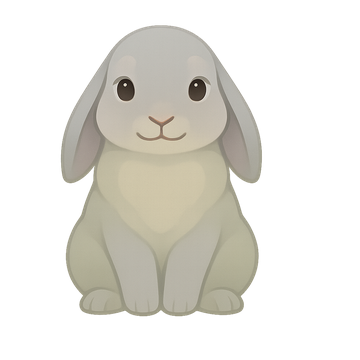
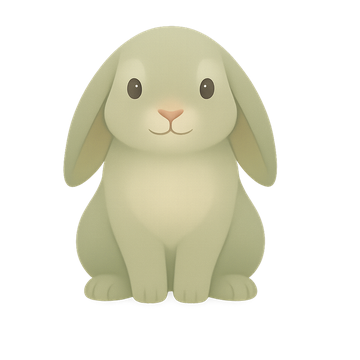
Review fixes: flat river/fern, mobile hero-glow overflow, contrast, terms
From the 2nd design review:
- Regenerated river (otter) + fern (rabbit) idles — they had a dark ink outline /
  glossy airbrush that broke the flat cel-shaded set; now match willow/stone/etc.
  (also updated their 5 app states).
- Fixed a 6px horizontal overflow on phones: the hero glow's -30px bleed pushed
  the page past a 375px viewport; pulled the glow inset to 0 under 700px.
- Contrast: FAQ "+" glyph + How step numerals -> --primary-dark (AA).
- Feature-card minmax floor -> min(100%,260px) so it can't overflow sub-320px.
- Terms Plus features now match the marketing wording (no orphan "export").
Cache version -> v=20260624i.

Changed region(s): [[0.1528, 0.0611, 0.7944, 0.8861]]

diff --git a/index.html b/index.html
@@ -19,14 +19,14 @@
   <meta property="og:description" content="Practice DBT skills with a warm companion you choose — and who's there in the hard moments too. Crisis support is always free.">
   <meta property="og:url" content="https://quietoak.app/">
   <meta property="og:site_name" content="Quietoak">
-  <meta property="og:image" content="https://drvanus.github.io/quietoak-site/og-image.png?v=20260624h">
+  <meta property="og:image" content="https://drvanus.github.io/quietoak-site/og-image.png?v=20260624i">
   <meta name="twitter:card" content="summary_large_image">
   <meta name="twitter:title" content="Quietoak — A calmer way to practice DBT skills.">
   <meta name="twitter:description" content="Practice DBT skills with a warm companion you choose. The crisis kit is always free.">
-  <meta name="twitter:image" content="https://drvanus.github.io/quietoak-site/og-image.png?v=20260624h">
+  <meta name="twitter:image" content="https://drvanus.github.io/quietoak-site/og-image.png?v=20260624i">
 
-  <link rel="icon" type="image/png" href="quietoak-icon.png?v=20260624h">
-  <link rel="apple-touch-icon" href="quietoak-icon.png?v=20260624h">
+  <link rel="icon" type="image/png" href="quietoak-icon.png?v=20260624i">
+  <link rel="apple-touch-icon" href="quietoak-icon.png?v=20260624i">
 
   <link rel="preconnect" href="https://fonts.googleapis.com">
   <link rel="preconnect" href="https://fonts.gstatic.com" crossorigin>
@@ -194,6 +194,9 @@
       background: radial-gradient(ellipse at center, var(--sage-glow), transparent 65%);
       pointer-events: none; z-index: -1;
     }
+    /* On phones the -30px glow bleed pushed the page ~6px past the viewport
+       (horizontal scroll). Pull it in so the page can't drift sideways. */
+    @media (max-width: 700px) { .hero-image::after { inset: 0; } }
 
     /* ===== STATS STRIP ===== */
     .stats-strip {
@@ -233,14 +236,14 @@
       content: counter(step); position: absolute; left: 0; top: 16px;
       width: 44px; height: 44px;
       display: flex; align-items: center; justify-content: center;
-      font-weight: 800; font-size: 1.15rem; color: var(--primary);
+      font-weight: 800; font-size: 1.15rem; color: var(--primary-dark);
       background: var(--sage-glow); border: 1px solid var(--border-strong); border-radius: 50%;
     }
     .how-steps h3 { font-weight: 800; font-size: 1.12rem; margin-bottom: 4px; }
     .how-steps p { color: var(--muted-fg); font-size: 0.97rem; }
 
     /* ===== FEATURES ===== */
-    .features-grid { display: grid; grid-template-columns: repeat(auto-fit, minmax(260px, 1fr)); gap: 20px; }
+    .features-grid { display: grid; grid-template-columns: repeat(auto-fit, minmax(min(100%, 260px), 1fr)); gap: 20px; }
     .feature-card {
       padding: 26px; background: var(--card);
       border: 1px solid var(--border); border-radius: var(--radius-lg);
@@ -351,7 +354,7 @@
       padding-right: 8px; color: var(--fg);
     }
     details.faq summary::-webkit-details-marker { display: none; }
-    details.faq summary::after { content: '+'; color: var(--primary); font-weight: 400; font-size: 1.4rem; transition: transform .2s; }
+    details.faq summary::after { content: '+'; color: var(--primary-dark); font-weight: 400; font-size: 1.4rem; transition: transform .2s; }
     details.faq[open] summary::after { transform: rotate(45deg); }
     details.faq p { margin-top: 12px; color: var(--muted-fg); font-size: 0.98rem; line-height: 1.7; }
 
@@ -386,7 +389,7 @@
   <nav class="site">
     <div class="container">
       <div class="brand">
-        <img src="quietoak-icon.png?v=20260624h" alt="Quietoak">
+        <img src="quietoak-icon.png?v=20260624i" alt="Quietoak">
         Quietoak
       </div>
       <div class="links">
@@ -430,7 +433,7 @@
           </div>
         </div>
         <div class="hero-image">
-          <img src="companions/group.png?v=20260624h" alt="The six Quietoak companions sitting together — a fawn, an owl, an otter, a tortoise, a rabbit, and a fox">
+          <img src="companions/group.png?v=20260624i" alt="The six Quietoak companions sitting together — a fawn, an owl, an otter, a tortoise, a rabbit, and a fox">
         </div>
       </div>
     </div>
@@ -460,7 +463,7 @@
           </ol>
         </div>
         <div>
-          <img class="how-image" src="companions/willow-idle.png?v=20260624h" alt="Willow, a gentle sage-green fawn companion">
+          <img class="how-image" src="companions/willow-idle.png?v=20260624i" alt="Willow, a gentle sage-green fawn companion">
         </div>
       </div>
     </div>
@@ -474,37 +477,37 @@
       <p class="lede" style="text-align:center; margin-left:auto; margin-right:auto;">Six soft nature-spirits, each a different way of showing up. The same companion guides your practice and stays with you in the hard moments.</p>
       <div class="companions-grid">
         <div class="companion-card">
-          <img src="companions/willow-idle.png?v=20260624h" alt="Willow, a fawn">
+          <img src="companions/willow-idle.png?v=20260624i" alt="Willow, a fawn">
           <div class="name">Willow</div>
           <div class="role">Grounding</div>
           <p>Warm and quiet. Slows the body down — feet on the floor, one slow breath.</p>
         </div>
         <div class="companion-card">
-          <img src="companions/stone-idle.png?v=20260624h" alt="Stone, a tortoise">
+          <img src="companions/stone-idle.png?v=20260624i" alt="Stone, a tortoise">
           <div class="name">Stone</div>
           <div class="role">Steady</div>
           <p>Unhurried and immovable. "We have time. Nothing has to be solved this second."</p>
         </div>
         <div class="companion-card">
-          <img src="companions/sage-idle.png?v=20260624h" alt="Sage, an owl">
+          <img src="companions/sage-idle.png?v=20260624i" alt="Sage, an owl">
           <div class="name">Sage</div>
           <div class="role">Clear</div>
           <p>Calm and plainspoken. Helps you name what's happening and see it clearly.</p>
         </div>
         <div class="companion-card">
-          <img src="companions/river-idle.png?v=20260624h" alt="River, an otter">
+          <img src="companions/river-idle.png?v=20260624i" alt="River, an otter">
           <div class="name">River</div>
           <div class="role">Encouraging</div>
           <p>Upbeat and honest. "You showed up — that counts. What's the next small win?"</p>
         </div>
         <div class="companion-card">
-          <img src="companions/fern-idle.png?v=20260624h" alt="Fern, a rabbit">
+          <img src="companions/fern-idle.png?v=20260624i" alt="Fern, a rabbit">
           <div class="name">Fern</div>
           <div class="role">Tender</div>
           <p>Soft and permission-giving. "You don't have to be okay right now."</p>
         </div>
         <div class="companion-card">
-          <img src="companions/sol-idle.png?v=20260624h" alt="Sol, a fox">
+          <img src="companions/sol-idle.png?v=20260624i" alt="Sol, a fox">
           <div class="name">Sol</div>
           <div class="role">Hopeful</div>
           <p>Warm and low-light, not peppy. "Let's find one warm thing to stand on."</p>
@@ -518,7 +521,7 @@
     <div class="container">
       <div class="spotlight-grid">
         <div class="spotlight-phone">
-          <div class="screen-frame"><img src="screenshots/06-context.jpg?v=20260624h" alt="Quietoak onboarding — sharing what you're navigating, diagnosed or exploring" loading="lazy"></div>
+          <div class="screen-frame"><img src="screenshots/06-context.jpg?v=20260624i" alt="Quietoak onboarding — sharing what you're navigating, diagnosed or exploring" loading="lazy"></div>
         </div>
         <div>
           <div class="section-eyebrow">Knows you better</div>
@@ -542,32 +545,32 @@
       <p class="lede">Faithful to the DBT model, built warm by design — the opposite of clinical.</p>
       <div class="features-grid">
         <div class="feature-card">
-          <div class="icon-box"><img src="icons/feat-companion.png?v=20260624h" alt=""></div>
+          <div class="icon-box"><img src="icons/feat-companion.png?v=20260624i" alt=""></div>
           <h3>Choose your companion</h3>
           <p>Six gentle companions, each with a distinct temperament — grounding, steady, clear, encouraging, tender, or hopeful. The companion is an AI guide, named and yours.</p>
         </div>
         <div class="feature-card">
-          <div class="icon-box"><img src="icons/feat-skills.png?v=20260624h" alt=""></div>
+          <div class="icon-box"><img src="icons/feat-skills.png?v=20260624i" alt=""></div>
           <h3>Real DBT skills</h3>
           <p>All four modules — Mindfulness, Distress Tolerance, Emotion Regulation, Interpersonal Effectiveness — in small, plainspoken steps you take at your own pace.</p>
         </div>
         <div class="feature-card">
-          <div class="icon-box"><img src="icons/feat-diary.png?v=20260624h" alt=""></div>
+          <div class="icon-box"><img src="icons/feat-diary.png?v=20260624i" alt=""></div>
           <h3>A one-minute diary card</h3>
           <p>Track emotions, urges, and the skills you used in under a minute. Look back without judgment and notice your own patterns gently over time.</p>
         </div>
         <div class="feature-card">
-          <div class="icon-box"><img src="icons/feat-breathing.png?v=20260624h" alt=""></div>
+          <div class="icon-box"><img src="icons/feat-breathing.png?v=20260624i" alt=""></div>
           <h3>Guided exercises</h3>
           <p>STOP, TIPP, and paced breathing — guided step by step, with a companion who can breathe alongside you when you want company.</p>
         </div>
         <div class="feature-card">
-          <div class="icon-box"><img src="icons/feat-crisis.png?v=20260624h" alt=""></div>
+          <div class="icon-box"><img src="icons/feat-crisis.png?v=20260624i" alt=""></div>
           <h3>Crisis kit, always free</h3>
           <p>988, 741741, and your local lines — never behind a paywall, and it works offline. Some things should never be gated.</p>
         </div>
         <div class="feature-card">
-          <div class="icon-box"><img src="icons/feat-privacy.png?v=20260624h" alt=""></div>
+          <div class="icon-box"><img src="icons/feat-privacy.png?v=20260624i" alt=""></div>
           <h3>Private &amp; accountless</h3>
           <p>No sign-up, no account to create. Your diary and practice stay on your device by default. No ads, no third-party trackers on your diary or chat.</p>
         </div>
@@ -583,19 +586,19 @@
       <p class="lede" style="text-align:center; margin-left:auto; margin-right:auto;">Warm, plainspoken, and built for hard moments — not a clinical dashboard.</p>
       <div class="screens-grid">
         <div class="screen-card">
-          <div class="screen-frame"><img src="screenshots/01-today.jpg?v=20260624h" alt="Quietoak Today tab — a companion greeting and a one-minute check-in" loading="lazy"></div>
+          <div class="screen-frame"><img src="screenshots/01-today.jpg?v=20260624i" alt="Quietoak Today tab — a companion greeting and a one-minute check-in" loading="lazy"></div>
           <div class="screen-label"><strong>Today</strong>Your companion, every day</div>
         </div>
         <div class="screen-card">
-          <div class="screen-frame"><img src="screenshots/03-skills.jpg?v=20260624h" alt="Quietoak Skills tab — the four DBT modules" loading="lazy"></div>
+          <div class="screen-frame"><img src="screenshots/03-skills.jpg?v=20260624i" alt="Quietoak Skills tab — the four DBT modules" loading="lazy"></div>
           <div class="screen-label"><strong>Skills</strong>Real DBT skills, guided</div>
         </div>
         <div class="screen-card">
-          <div class="screen-frame"><img src="screenshots/04-diary.jpg?v=20260624h" alt="Quietoak diary card — mood and emotions in under a minute" loading="lazy"></div>
+          <div class="screen-frame"><img src="screenshots/04-diary.jpg?v=20260624i" alt="Quietoak diary card — mood and emotions in under a minute" loading="lazy"></div>
           <div class="screen-label"><strong>Diary</strong>A one-minute card</div>
         </div>
         <div class="screen-card">
-          <div class="screen-frame"><img src="screenshots/05-crisis.jpg?v=20260624h" alt="Quietoak Crisis Survival Kit — 988, 741741, and grounding skills" loading="lazy"></div>
+          <div class="screen-frame"><img src="screenshots/05-crisis.jpg?v=20260624i" alt="Quietoak Crisis Survival Kit — 988, 741741, and grounding skills" loading="lazy"></div>
           <div class="screen-label"><strong>Crisis kit</strong>One tap, always free</div>
         </div>
       </div>
@@ -610,11 +613,11 @@
       <p class="lede" style="text-align:center; max-width: 680px; margin-left:auto; margin-right:auto;">Your companion won't push a skill every time. Often it just wants to understand — asking what's going on, validating, and giving you room to vent. When something might genuinely help, it brings a guided exercise right into the chat, never buried in a menu.</p>
       <div class="responds-pair">
         <div class="responds-card">
-          <div class="screen-frame"><img src="screenshots/02-companion-listen.jpg?v=20260624h" alt="Quietoak companion listening — validating and asking what made the day hard" loading="lazy"></div>
+          <div class="screen-frame"><img src="screenshots/02-companion-listen.jpg?v=20260624i" alt="Quietoak companion listening — validating and asking what made the day hard" loading="lazy"></div>
           <div class="screen-label"><strong>Sometimes it just listens</strong>Asks, validates, lets you vent</div>
         </div>
         <div class="responds-card">
-          <div class="screen-frame"><img src="screenshots/02-companion.jpg?v=20260624h" alt="Quietoak companion bringing a Paced Breathing exercise into the chat" loading="lazy"></div>
+          <div class="screen-frame"><img src="screenshots/02-companion.jpg?v=20260624i" alt="Quietoak companion bringing a Paced Breathing exercise into the chat" loading="lazy"></div>
           <div class="screen-label"><strong>And guides when it helps</strong>A skill, right in the chat</div>
         </div>
       </div>
@@ -625,7 +628,7 @@
   <section class="section-block tight">
     <div class="container">
       <div class="crisis-band">
-        <div class="glyph" aria-hidden="true"><img src="icons/feat-crisis.png?v=20260624h" alt=""></div>
+        <div class="glyph" aria-hidden="true"><img src="icons/feat-crisis.png?v=20260624i" alt=""></div>
         <div>
           <h3>Help is always one tap away — and always free.</h3>
           <p>The Crisis Survival Kit is never behind Pro and works offline: <strong>988</strong> (call or text, US), <strong>741741</strong> (text HOME), and your local lines, resolved to your region. If you're in immediate danger, call your local emergency number.</p>

diff --git a/terms.html b/terms.html
@@ -52,7 +52,7 @@
     <h2>Subscriptions &amp; billing</h2>
     <ul>
       <li>The core DBT skills, the diary card, all six companions, and the Crisis Survival Kit are <strong>free</strong>. Crisis features are never paywalled.</li>
-      <li><strong>Quietoak Plus</strong> is an auto-renewing subscription ($9.99/month or $59.99/year, where available) that unlocks premium voice, deeper memory, advanced analytics, and export.</li>
+      <li><strong>Quietoak Plus</strong> is an auto-renewing subscription ($9.99/month or $59.99/year, where available) that unlocks premium companion voice, deeper memory &amp; continuity, advanced trend analytics, and a weekly summary you can share with a therapist.</li>
       <li>Payment is charged to your Apple ID. Subscriptions renew automatically unless cancelled at least 24 hours before the end of the period. Manage or cancel in <strong>iOS Settings → Apple ID → Subscriptions</strong>.</li>
       <li>Refunds are handled by Apple via <a href="https://reportaproblem.apple.com/" rel="noopener">reportaproblem.apple.com</a>.</li>
     </ul>
